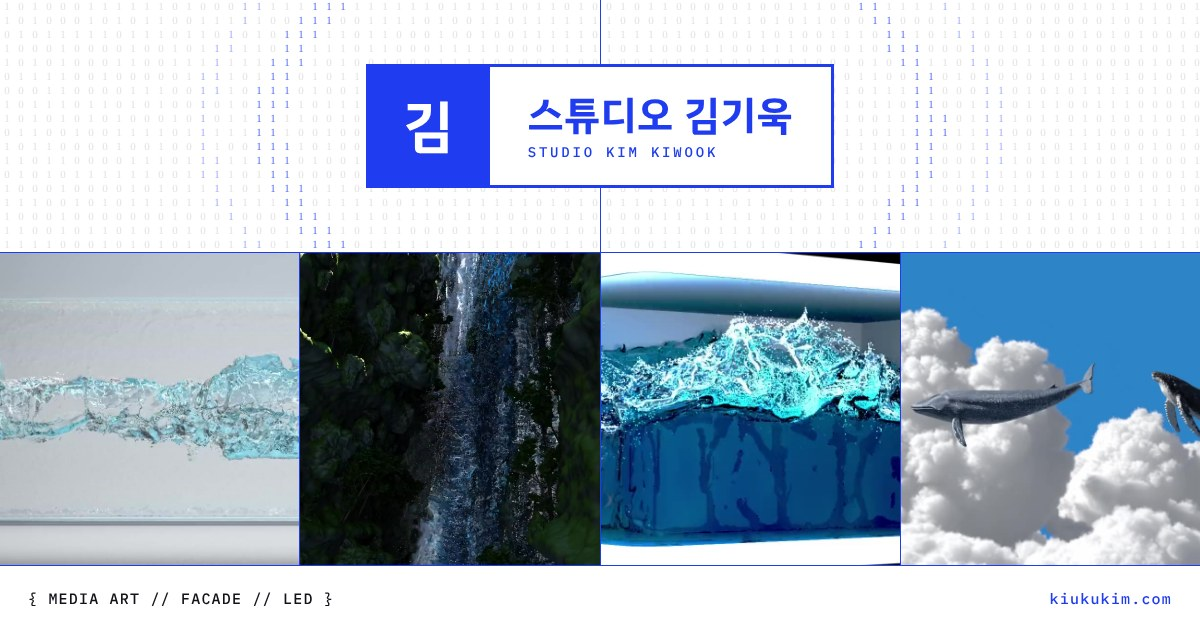
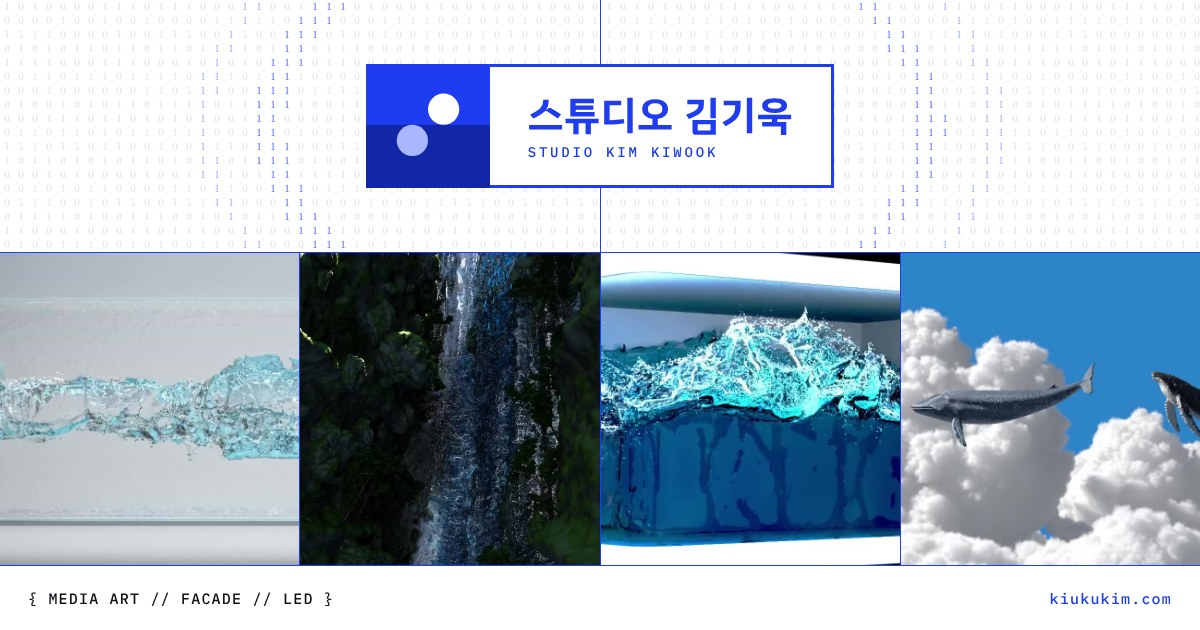
로고 마크를 '김'에서 '물 위의 두 공' 심볼로 교체
- 머리글·시작 화면·홈 큰 로고·푸터의 마크를 심볼(SVG)로
- 파비콘(32·192)·홈 화면 아이콘·공유 썸네일(og.jpg) 새로 만듦

Claude-Session: https://claude.ai/code/session_019FanuaFKjUrS4BwD7tTxsq

Changed region(s): [[0.2775, 0.1508, 0.4317, 0.3016]]

diff --git a/public/index.html b/public/index.html
@@ -61,6 +61,7 @@ main:focus{outline:none}
 .hdr{position:sticky;top:env(safe-area-inset-top,0px);z-index:30;display:flex;align-items:center;justify-content:space-between;height:var(--hh);padding-left:20px;background:var(--bg);border-bottom:var(--line)}
 .logo{display:inline-flex;align-items:stretch;text-decoration:none;color:var(--accent)}
 .logo-mark{display:grid;place-items:center;background:var(--accent);color:var(--on-accent);font-family:var(--sans);font-weight:700;line-height:1}
+.logo-mark svg{width:100%;height:100%;display:block}
 .logo-word{display:flex;flex-direction:column;justify-content:center;border:var(--line);border-left:0;line-height:1.2;background:var(--bg)}
 .logo-word b{font-family:var(--sans);font-weight:700;letter-spacing:.02em}
 .logo-word small{font-family:var(--mono);font-weight:500;letter-spacing:.16em;white-space:nowrap}
@@ -480,7 +481,7 @@ html[lang="ko"] .rt-col[lang="ja"],html[lang="en"] .rt-col[lang="ko"],html[lang=
   <canvas class="sp-cv sp-l" id="spL"></canvas>
   <canvas class="sp-cv sp-r" id="spR"></canvas>
   <span class="sp-line"></span>
-  <div class="logo biglogo sp-logo"><span class="logo-mark">김</span><span class="logo-word"><b>스튜디오 김기욱</b><small id="spSmall"></small></span></div>
+  <div class="logo biglogo sp-logo"><span class="logo-mark" aria-hidden="true"><svg viewBox="0 0 1080 1080" preserveAspectRatio="xMidYMid slice" focusable="false"><rect width="1080" height="1080" fill="#1F3CF0"/><rect y="530" width="1080" height="550" fill="#1226A8"/><circle cx="676" cy="394" r="136" fill="#fff"/><circle cx="404" cy="666" r="136" fill="#A9B7FF"/></svg></span><span class="logo-word"><b>스튜디오 김기욱</b><small id="spSmall"></small></span></div>
   <pre class="sp-log" id="spLog"></pre>
   <span class="sp-cnt" id="spCnt">000</span>
   <span class="sp-skip">CLICK TO SKIP ▸</span>
@@ -489,7 +490,7 @@ html[lang="ko"] .rt-col[lang="ja"],html[lang="en"] .rt-col[lang="ko"],html[lang=
 <button class="skip" id="skipBtn" type="button">본문으로 건너뛰기</button>
 <header class="hdr">
   <a class="logo" href="#home" aria-label="스튜디오 김기욱 홈">
-    <span class="logo-mark" aria-hidden="true">김</span>
+    <span class="logo-mark" aria-hidden="true"><svg viewBox="0 0 1080 1080" preserveAspectRatio="xMidYMid slice" focusable="false"><rect width="1080" height="1080" fill="#1F3CF0"/><rect y="530" width="1080" height="550" fill="#1226A8"/><circle cx="676" cy="394" r="136" fill="#fff"/><circle cx="404" cy="666" r="136" fill="#A9B7FF"/></svg></span>
     <span class="logo-word"><b>스튜디오 김기욱</b><small>STUDIO KIM KIWOOK</small></span>
   </a>
   <nav class="braces" aria-label="탭">
@@ -519,7 +520,7 @@ html[lang="ko"] .rt-col[lang="ja"],html[lang="en"] .rt-col[lang="ko"],html[lang=
   <section class="page" data-page="home" aria-label="홈">
     <div class="stage" id="stage">
       <canvas id="pond" aria-hidden="true"></canvas>
-      <h1 class="logo biglogo" aria-label="스튜디오 김기욱"><span class="logo-mark" aria-hidden="true">김</span><span class="logo-word" aria-hidden="true"><b>스튜디오 김기욱</b><small>STUDIO KIM KIWOOK</small></span></h1>
+      <h1 class="logo biglogo" aria-label="스튜디오 김기욱"><span class="logo-mark" aria-hidden="true"><svg viewBox="0 0 1080 1080" preserveAspectRatio="xMidYMid slice" focusable="false"><rect width="1080" height="1080" fill="#1F3CF0"/><rect y="530" width="1080" height="550" fill="#1226A8"/><circle cx="676" cy="394" r="136" fill="#fff"/><circle cx="404" cy="666" r="136" fill="#A9B7FF"/></svg></span><span class="logo-word" aria-hidden="true"><b>스튜디오 김기욱</b><small>STUDIO KIM KIWOOK</small></span></h1>
       <button class="drop-hint" id="dropHint" type="button">{ CLICK · DRAG // 물결 일으키기 }</button>
       <span class="stage-tri" aria-hidden="true"></span>
     </div>
@@ -808,7 +809,7 @@ class StudioKimKiwook extends MediaArtStudio {
 studio.render({ fit: ["facade", "anamorphic", "vertical"] });
 studio.contact({ email: "hikiwook@gmail.com", instagram: "@kiukukim" });</pre></div>
     <div class="cellbox foot-r">
-      <a class="logo" href="#home" aria-label="스튜디오 김기욱 홈"><span class="logo-mark" aria-hidden="true">김</span><span class="logo-word"><b>스튜디오 김기욱</b><small>STUDIO KIM KIWOOK</small></span></a>
+      <a class="logo" href="#home" aria-label="스튜디오 김기욱 홈"><span class="logo-mark" aria-hidden="true"><svg viewBox="0 0 1080 1080" preserveAspectRatio="xMidYMid slice" focusable="false"><rect width="1080" height="1080" fill="#1F3CF0"/><rect y="530" width="1080" height="550" fill="#1226A8"/><circle cx="676" cy="394" r="136" fill="#fff"/><circle cx="404" cy="666" r="136" fill="#A9B7FF"/></svg></span><span class="logo-word"><b>스튜디오 김기욱</b><small>STUDIO KIM KIWOOK</small></span></a>
       <p class="fine">{ © 2026 스튜디오 김기욱 // hikiwook@gmail.com // <a href="https://www.instagram.com/kiukukim/" target="_blank" rel="noopener">@kiukukim</a> }</p>
     </div>
   </div>

diff --git a/public/ja/index.html b/public/ja/index.html
@@ -61,6 +61,7 @@ main:focus{outline:none}
 .hdr{position:sticky;top:env(safe-area-inset-top,0px);z-index:30;display:flex;align-items:center;justify-content:space-between;height:var(--hh);padding-left:20px;background:var(--bg);border-bottom:var(--line)}
 .logo{display:inline-flex;align-items:stretch;text-decoration:none;color:var(--accent)}
 .logo-mark{display:grid;place-items:center;background:var(--accent);color:var(--on-accent);font-family:var(--sans);font-weight:700;line-height:1}
+.logo-mark svg{width:100%;height:100%;display:block}
 .logo-word{display:flex;flex-direction:column;justify-content:center;border:var(--line);border-left:0;line-height:1.2;background:var(--bg)}
 .logo-word b{font-family:var(--sans);font-weight:700;letter-spacing:.02em}
 .logo-word small{font-family:var(--mono);font-weight:500;letter-spacing:.16em;white-space:nowrap}
@@ -480,7 +481,7 @@ html[lang="ko"] .rt-col[lang="ja"],html[lang="en"] .rt-col[lang="ko"],html[lang=
   <canvas class="sp-cv sp-l" id="spL"></canvas>
   <canvas class="sp-cv sp-r" id="spR"></canvas>
   <span class="sp-line"></span>
-  <div class="logo biglogo sp-logo"><span class="logo-mark">김</span><span class="logo-word"><b>스튜디오 김기욱</b><small id="spSmall"></small></span></div>
+  <div class="logo biglogo sp-logo"><span class="logo-mark" aria-hidden="true"><svg viewBox="0 0 1080 1080" preserveAspectRatio="xMidYMid slice" focusable="false"><rect width="1080" height="1080" fill="#1F3CF0"/><rect y="530" width="1080" height="550" fill="#1226A8"/><circle cx="676" cy="394" r="136" fill="#fff"/><circle cx="404" cy="666" r="136" fill="#A9B7FF"/></svg></span><span class="logo-word"><b>스튜디오 김기욱</b><small id="spSmall"></small></span></div>
   <pre class="sp-log" id="spLog"></pre>
   <span class="sp-cnt" id="spCnt">000</span>
   <span class="sp-skip">CLICK TO SKIP ▸</span>
@@ -489,7 +490,7 @@ html[lang="ko"] .rt-col[lang="ja"],html[lang="en"] .rt-col[lang="ko"],html[lang=
 <button class="skip" id="skipBtn" type="button">本文へスキップ</button>
 <header class="hdr">
   <a class="logo" href="#home" aria-label="Studio Kim Kiwook ホーム">
-    <span class="logo-mark" aria-hidden="true">김</span>
+    <span class="logo-mark" aria-hidden="true"><svg viewBox="0 0 1080 1080" preserveAspectRatio="xMidYMid slice" focusable="false"><rect width="1080" height="1080" fill="#1F3CF0"/><rect y="530" width="1080" height="550" fill="#1226A8"/><circle cx="676" cy="394" r="136" fill="#fff"/><circle cx="404" cy="666" r="136" fill="#A9B7FF"/></svg></span>
     <span class="logo-word"><b>스튜디오 김기욱</b><small>STUDIO KIM KIWOOK</small></span>
   </a>
   <nav class="braces" aria-label="タブ">
@@ -519,7 +520,7 @@ html[lang="ko"] .rt-col[lang="ja"],html[lang="en"] .rt-col[lang="ko"],html[lang=
   <section class="page" data-page="home" aria-label="ホーム">
     <div class="stage" id="stage">
       <canvas id="pond" aria-hidden="true"></canvas>
-      <h1 class="logo biglogo" aria-label="Studio Kim Kiwook"><span class="logo-mark" aria-hidden="true">김</span><span class="logo-word" aria-hidden="true"><b>스튜디오 김기욱</b><small>STUDIO KIM KIWOOK</small></span></h1>
+      <h1 class="logo biglogo" aria-label="Studio Kim Kiwook"><span class="logo-mark" aria-hidden="true"><svg viewBox="0 0 1080 1080" preserveAspectRatio="xMidYMid slice" focusable="false"><rect width="1080" height="1080" fill="#1F3CF0"/><rect y="530" width="1080" height="550" fill="#1226A8"/><circle cx="676" cy="394" r="136" fill="#fff"/><circle cx="404" cy="666" r="136" fill="#A9B7FF"/></svg></span><span class="logo-word" aria-hidden="true"><b>스튜디오 김기욱</b><small>STUDIO KIM KIWOOK</small></span></h1>
       <button class="drop-hint" id="dropHint" type="button">{ CLICK · DRAG // 波紋を起こす }</button>
       <span class="stage-tri" aria-hidden="true"></span>
     </div>
@@ -808,7 +809,7 @@ class StudioKimKiwook extends MediaArtStudio {
 studio.render({ fit: ["facade", "anamorphic", "vertical"] });
 studio.contact({ email: "hikiwook@gmail.com", instagram: "@kiukukim" });</pre></div>
     <div class="cellbox foot-r">
-      <a class="logo" href="#home" aria-label="Studio Kim Kiwook ホーム"><span class="logo-mark" aria-hidden="true">김</span><span class="logo-word"><b>스튜디오 김기욱</b><small>STUDIO KIM KIWOOK</small></span></a>
+      <a class="logo" href="#home" aria-label="Studio Kim Kiwook ホーム"><span class="logo-mark" aria-hidden="true"><svg viewBox="0 0 1080 1080" preserveAspectRatio="xMidYMid slice" focusable="false"><rect width="1080" height="1080" fill="#1F3CF0"/><rect y="530" width="1080" height="550" fill="#1226A8"/><circle cx="676" cy="394" r="136" fill="#fff"/><circle cx="404" cy="666" r="136" fill="#A9B7FF"/></svg></span><span class="logo-word"><b>스튜디오 김기욱</b><small>STUDIO KIM KIWOOK</small></span></a>
       <p class="fine">{ © 2026 Studio Kim Kiwook // hikiwook@gmail.com // <a href="https://www.instagram.com/kiukukim/" target="_blank" rel="noopener">@kiukukim</a> }</p>
     </div>
   </div>

diff --git a/public/en/index.html b/public/en/index.html
@@ -61,6 +61,7 @@ main:focus{outline:none}
 .hdr{position:sticky;top:env(safe-area-inset-top,0px);z-index:30;display:flex;align-items:center;justify-content:space-between;height:var(--hh);padding-left:20px;background:var(--bg);border-bottom:var(--line)}
 .logo{display:inline-flex;align-items:stretch;text-decoration:none;color:var(--accent)}
 .logo-mark{display:grid;place-items:center;background:var(--accent);color:var(--on-accent);font-family:var(--sans);font-weight:700;line-height:1}
+.logo-mark svg{width:100%;height:100%;display:block}
 .logo-word{display:flex;flex-direction:column;justify-content:center;border:var(--line);border-left:0;line-height:1.2;background:var(--bg)}
 .logo-word b{font-family:var(--sans);font-weight:700;letter-spacing:.02em}
 .logo-word small{font-family:var(--mono);font-weight:500;letter-spacing:.16em;white-space:nowrap}
@@ -480,7 +481,7 @@ html[lang="ko"] .rt-col[lang="ja"],html[lang="en"] .rt-col[lang="ko"],html[lang=
   <canvas class="sp-cv sp-l" id="spL"></canvas>
   <canvas class="sp-cv sp-r" id="spR"></canvas>
   <span class="sp-line"></span>
-  <div class="logo biglogo sp-logo"><span class="logo-mark">김</span><span class="logo-word"><b>스튜디오 김기욱</b><small id="spSmall"></small></span></div>
+  <div class="logo biglogo sp-logo"><span class="logo-mark" aria-hidden="true"><svg viewBox="0 0 1080 1080" preserveAspectRatio="xMidYMid slice" focusable="false"><rect width="1080" height="1080" fill="#1F3CF0"/><rect y="530" width="1080" height="550" fill="#1226A8"/><circle cx="676" cy="394" r="136" fill="#fff"/><circle cx="404" cy="666" r="136" fill="#A9B7FF"/></svg></span><span class="logo-word"><b>스튜디오 김기욱</b><small id="spSmall"></small></span></div>
   <pre class="sp-log" id="spLog"></pre>
   <span class="sp-cnt" id="spCnt">000</span>
   <span class="sp-skip">CLICK TO SKIP ▸</span>
@@ -489,7 +490,7 @@ html[lang="ko"] .rt-col[lang="ja"],html[lang="en"] .rt-col[lang="ko"],html[lang=
 <button class="skip" id="skipBtn" type="button">Skip to content</button>
 <header class="hdr">
   <a class="logo" href="#home" aria-label="Studio Kim Kiwook home">
-    <span class="logo-mark" aria-hidden="true">김</span>
+    <span class="logo-mark" aria-hidden="true"><svg viewBox="0 0 1080 1080" preserveAspectRatio="xMidYMid slice" focusable="false"><rect width="1080" height="1080" fill="#1F3CF0"/><rect y="530" width="1080" height="550" fill="#1226A8"/><circle cx="676" cy="394" r="136" fill="#fff"/><circle cx="404" cy="666" r="136" fill="#A9B7FF"/></svg></span>
     <span class="logo-word"><b>스튜디오 김기욱</b><small>STUDIO KIM KIWOOK</small></span>
   </a>
   <nav class="braces" aria-label="Tabs">
@@ -519,7 +520,7 @@ html[lang="ko"] .rt-col[lang="ja"],html[lang="en"] .rt-col[lang="ko"],html[lang=
   <section class="page" data-page="home" aria-label="Home">
     <div class="stage" id="stage">
       <canvas id="pond" aria-hidden="true"></canvas>
-      <h1 class="logo biglogo" aria-label="Studio Kim Kiwook"><span class="logo-mark" aria-hidden="true">김</span><span class="logo-word" aria-hidden="true"><b>스튜디오 김기욱</b><small>STUDIO KIM KIWOOK</small></span></h1>
+      <h1 class="logo biglogo" aria-label="Studio Kim Kiwook"><span class="logo-mark" aria-hidden="true"><svg viewBox="0 0 1080 1080" preserveAspectRatio="xMidYMid slice" focusable="false"><rect width="1080" height="1080" fill="#1F3CF0"/><rect y="530" width="1080" height="550" fill="#1226A8"/><circle cx="676" cy="394" r="136" fill="#fff"/><circle cx="404" cy="666" r="136" fill="#A9B7FF"/></svg></span><span class="logo-word" aria-hidden="true"><b>스튜디오 김기욱</b><small>STUDIO KIM KIWOOK</small></span></h1>
       <button class="drop-hint" id="dropHint" type="button">{ CLICK · DRAG // MAKE RIPPLES }</button>
       <span class="stage-tri" aria-hidden="true"></span>
     </div>
@@ -808,7 +809,7 @@ class StudioKimKiwook extends MediaArtStudio {
 studio.render({ fit: ["facade", "anamorphic", "vertical"] });
 studio.contact({ email: "hikiwook@gmail.com", instagram: "@kiukukim" });</pre></div>
     <div class="cellbox foot-r">
-      <a class="logo" href="#home" aria-label="Studio Kim Kiwook home"><span class="logo-mark" aria-hidden="true">김</span><span class="logo-word"><b>스튜디오 김기욱</b><small>STUDIO KIM KIWOOK</small></span></a>
+      <a class="logo" href="#home" aria-label="Studio Kim Kiwook home"><span class="logo-mark" aria-hidden="true"><svg viewBox="0 0 1080 1080" preserveAspectRatio="xMidYMid slice" focusable="false"><rect width="1080" height="1080" fill="#1F3CF0"/><rect y="530" width="1080" height="550" fill="#1226A8"/><circle cx="676" cy="394" r="136" fill="#fff"/><circle cx="404" cy="666" r="136" fill="#A9B7FF"/></svg></span><span class="logo-word"><b>스튜디오 김기욱</b><small>STUDIO KIM KIWOOK</small></span></a>
       <p class="fine">{ © 2026 Studio Kim Kiwook // hikiwook@gmail.com // <a href="https://www.instagram.com/kiukukim/" target="_blank" rel="noopener">@kiukukim</a> }</p>
     </div>
   </div>

diff --git a/tools/i18n/build.py b/tools/i18n/build.py
@@ -57,7 +57,7 @@ def leftovers(s: str):
     out = []
     for i, line in enumerate(s.split("\n"), 1):
         code = re.sub(r"(^|\s)//.*$", "", line)
-        code = code.replace("<b>스튜디오 김기욱</b>", "").replace('>김</span>', "")
+        code = code.replace("<b>스튜디오 김기욱</b>", "")
         if HANGUL.search(code):
             out.append((i, line.strip()[:160]))
     return out
